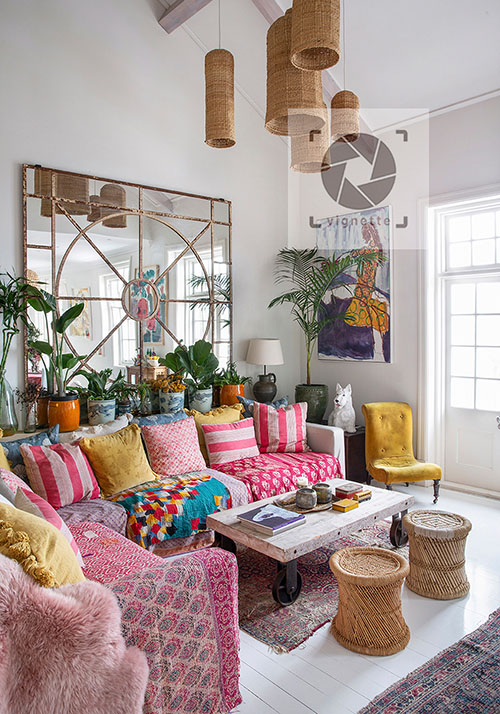
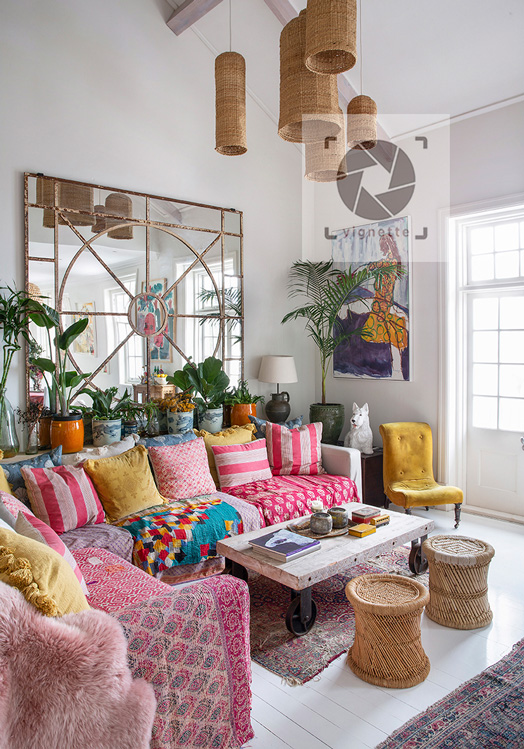
improved susman-savinge thumbnail

diff --git a/templates/feature.html b/templates/feature.html
@@ -14,7 +14,7 @@
             {% if image %}
 
             <a href="{{ feature|url }}"><img class="post-img"
-                    src="{{ image.thumbnail(498, 749, mode="crop", quality=80)|url }}"
+                    src="{{ image.thumbnail(498, 749, mode="crop", quality=81)|url }}"
                     alt="Thumbnail image for {{ feature.title }}"></a>
 
             {% endif %}
